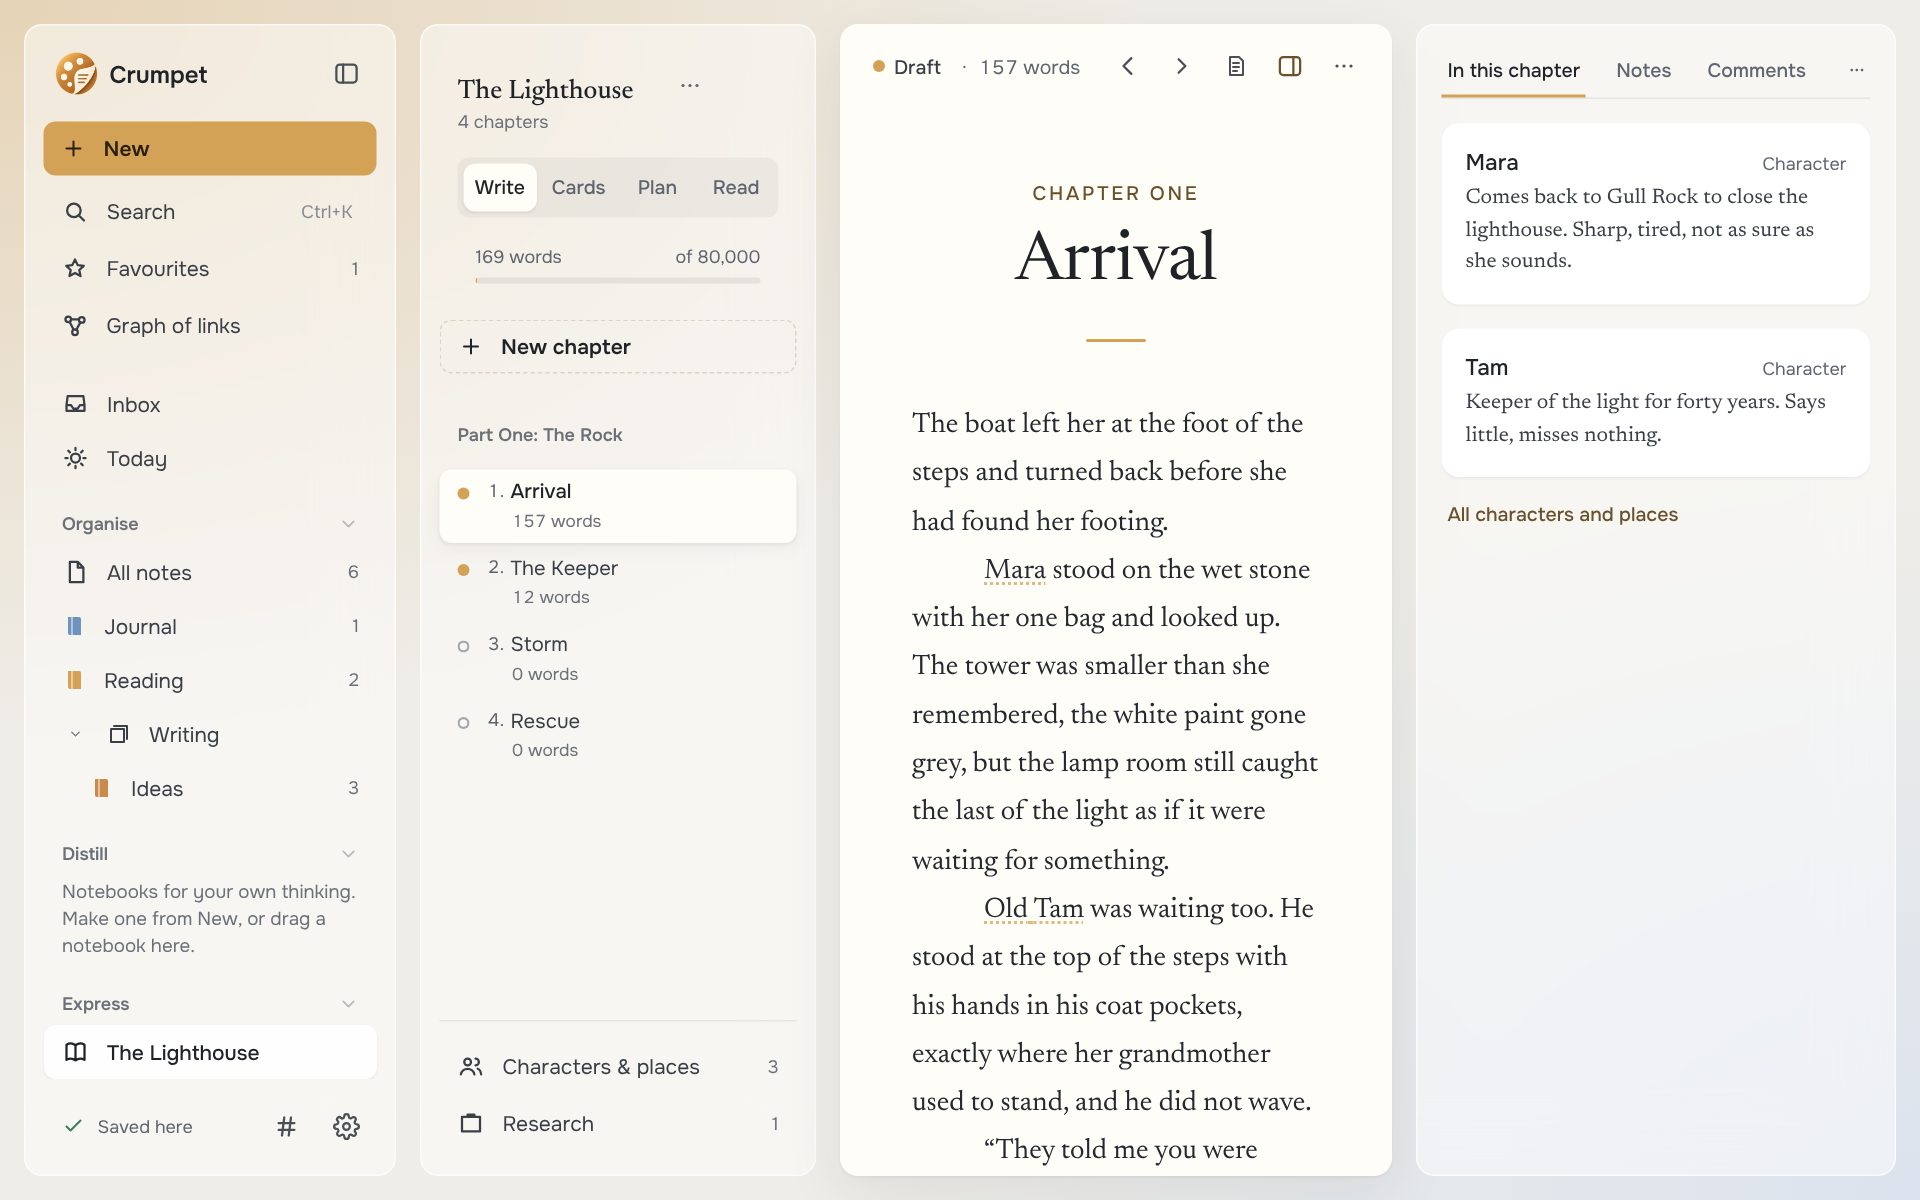
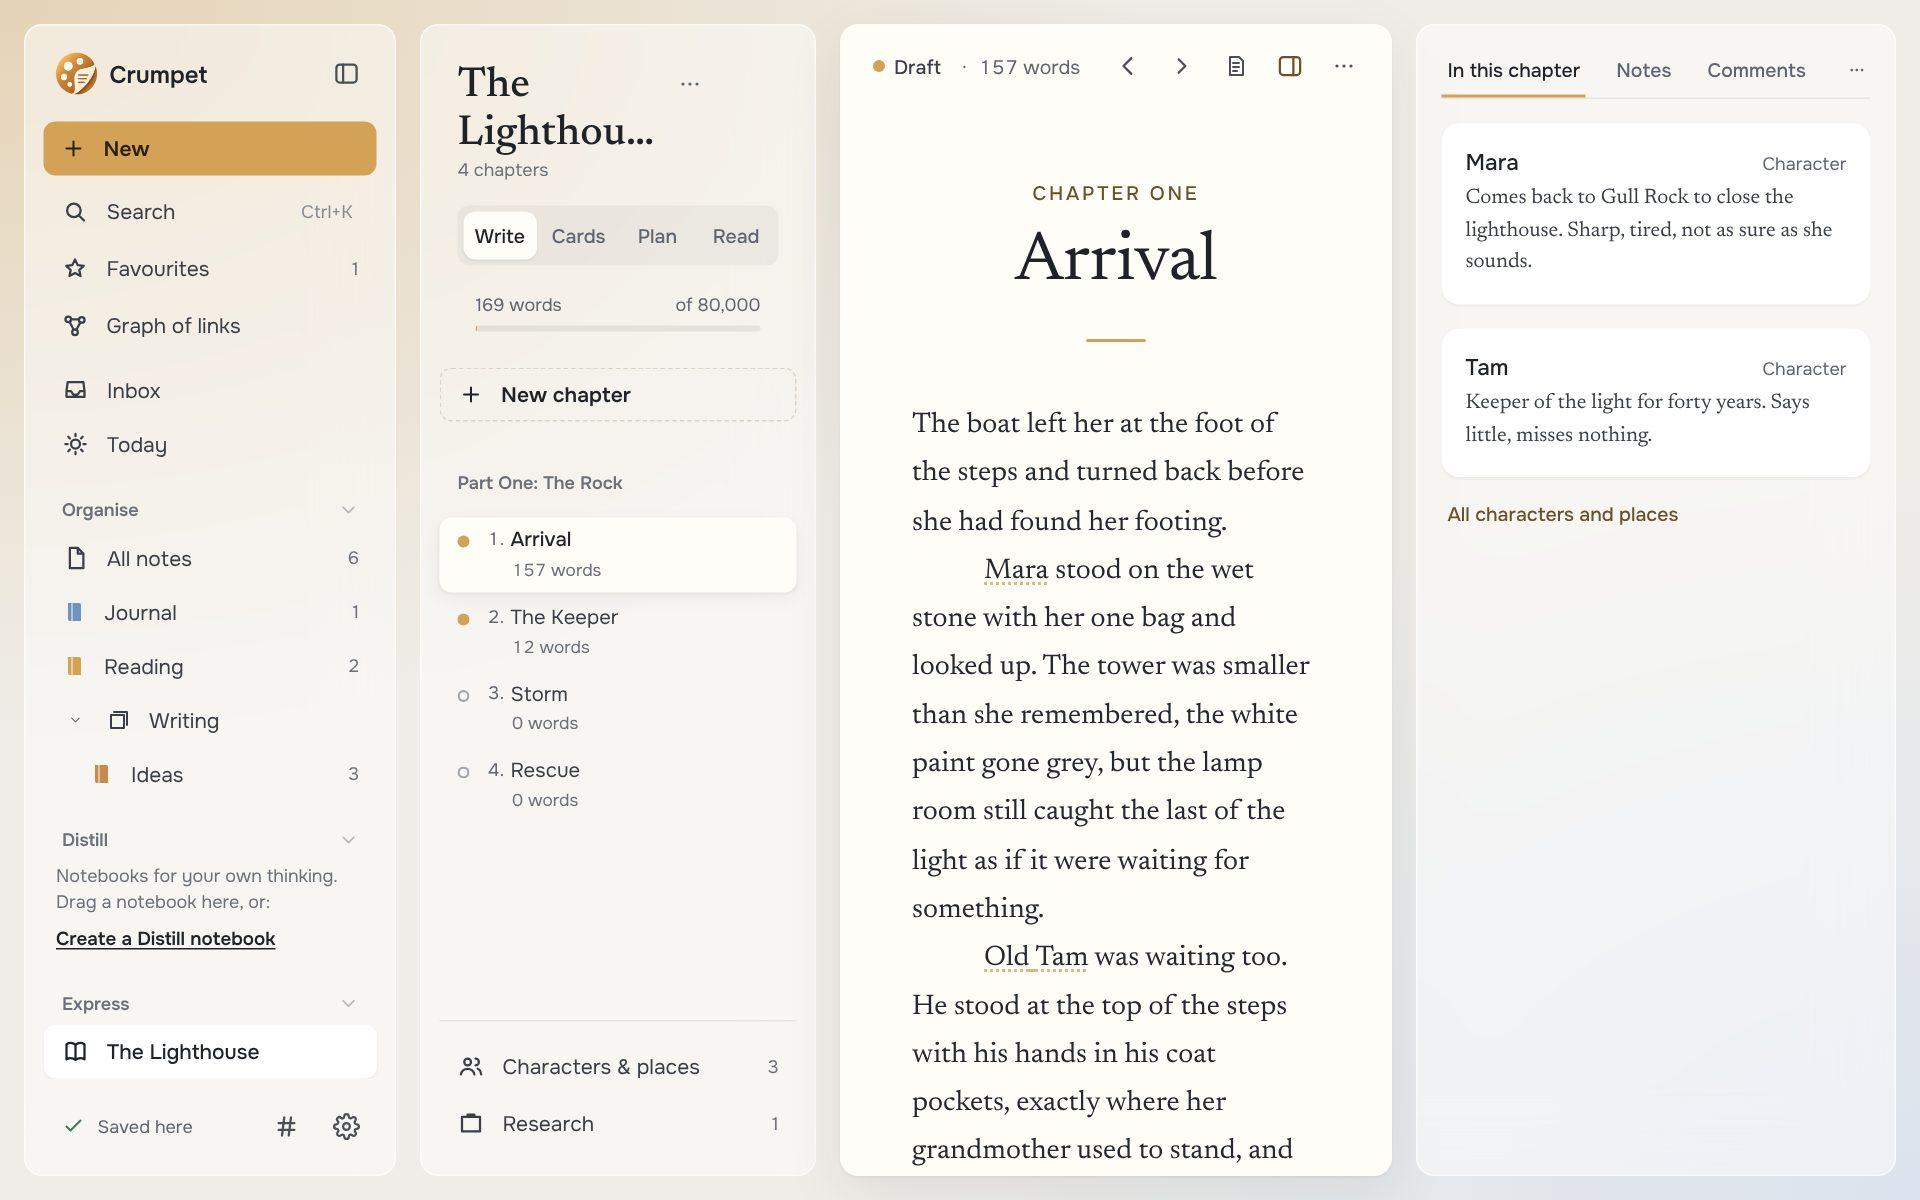
One switch style, one title size per level, one empty-section pattern
From the beta report's D7, D13 and D15:
- In Crumpet's own look every segmented switch (the Plan's tabs and lanes,
  Settings' and the Graph's filters, which were black pills) looks like
  Write/Cards/Plan/Read's.
- The book's name in its outline is 28px like the list's title, wrapping to
  two lines.
- Empty Distill and Express sidebar sections have a line and a link like
  Organise's (Create a Distill notebook, Start a book); the Tags menu's empty
  line sits with the menu's text.
- Guide pictures retaken; What's new entry.

Claude-Session: https://claude.ai/code/session_01TSPRCsqqCsX69RjAbFfRBD

diff --git a/app/src/ui/app.css b/app/src/ui/app.css
@@ -3055,9 +3055,7 @@ input.switch:focus-visible { outline: 2px solid var(--accent); outline-offset: 2
 /* ---- Quiet Paper: the whole window (designs 19, 20 and 22) ---- */
 .graph-view.calm .graph-head { display: flex; align-items: center; gap: 16px; padding: 20px 24px 0; }
 [data-look='crumpet'] .graph-head h1 { margin: 0; font: 500 28px/1.2 var(--title-font); letter-spacing: -0.01em; }
-.graph-chips { display: flex; gap: 6px; }
-.graph-chip { height: 28px; padding: 0 12px; border: none; border-radius: 999px; background: var(--calm-chip); font: 400 13px var(--ui-font); color: var(--calm-chip-ink); cursor: pointer; }
-.graph-chip[aria-pressed='true'] { background: var(--text); color: var(--page); }
+.graph-chips { display: flex; }
 .graph-find { width: 140px; height: 30px; padding: 0 10px; border: 1px solid var(--line); border-radius: 8px; background: transparent; font: inherit; font-size: 13px; color: var(--text); }
 .graph-view.calm .graph-head .check-row { font-size: 13px; color: var(--muted); }
 [data-look='crumpet'] .app.calm .board-pane.calm { position: relative; }
@@ -3834,3 +3832,19 @@ html[data-ui-scale] #root, html[data-ui-scale] body > .dialog-backdrop { zoom: v
 html[data-home-guide='1'] .app.phone .phone-library { padding-bottom: calc(200px + env(safe-area-inset-bottom, 0px)); }
 /* A back button names where it goes (a list, a book): long names end in … */
 .icon-btn.back .back-label { max-width: 42vw; overflow: hidden; text-overflow: ellipsis; white-space: nowrap; }
+
+/* One switch everywhere in Crumpet's own look (the beta report's D7): Write/Cards/Plan/Read's,
+   a soft tint with the chosen one a raised card. The book's modes and the phone's tabs keep
+   their own sizes, the same look. */
+[data-look='crumpet'] .segmented:not(.phone-tabs):not(.book-modes) { padding: 4px; gap: 4px; border-radius: 8px; background: color-mix(in srgb, var(--text) 5%, transparent); }
+[data-look='crumpet'] .segmented:not(.phone-tabs):not(.book-modes) button { min-height: 28px; padding: 0 10px; border-radius: 8px; font: 500 13px var(--ui-font); color: var(--muted); box-shadow: none; }
+[data-look='crumpet'] .segmented:not(.phone-tabs):not(.book-modes) button:is([aria-pressed='true'], [aria-selected='true'], [aria-checked='true']) { background: var(--calm-card, var(--page)); color: var(--text); box-shadow: 0 1px 2px rgba(31, 35, 40, 0.08); }
+[data-look='crumpet'] .segmented:not(.phone-tabs):not(.book-modes).small button { min-height: 24px; padding: 0 8px; font-size: 12.5px; }
+
+/* One title size per level (D13): a column's or a screen's title, the list's "All notes" and the
+   book's name in its outline alike (long names take two lines). */
+[data-look='crumpet'] .book-side .book-name h1, [data-look='crumpet'] .app.calm .book-side .book-name h1 { font-size: 28px; line-height: 1.15; white-space: normal; overflow: hidden; overflow-wrap: anywhere; display: -webkit-box; -webkit-line-clamp: 2; -webkit-box-orient: vertical; }
+[data-look='crumpet'] .book-side .book-head .list-title { align-items: flex-start; height: auto; }
+
+/* The Tags menu's empty line sits with the menu's text, not pushed to the right. */
+.tags-pop .tag-list > .menu-hint { margin: 2px 8px 6px; padding: 0; }

diff --git a/app/src/ui/Sidebar.tsx b/app/src/ui/Sidebar.tsx
@@ -223,7 +223,12 @@ export function Sidebar({ onOpenView, onOpenNote, onNewNote, onClose, onToday, o
         </div>
       )}
       {distill && !loose.some(mine) && !stacks.some((x) => mine(x.stack)) && creating !== nbKind && creating !== stKind && (
-        <p className="side-empty indent">Notebooks for your own thinking. Make one from New, or drag a notebook here.</p>
+        <div className="side-empty">
+          <p>Notebooks for your own thinking. Drag a notebook here, or:</p>
+          <button type="button" className="side-link" onClick={() => setCreating(nbKind)}>
+            Create a Distill notebook
+          </button>
+        </div>
       )}
       {loose.filter(mine).map((nb) => (
         <NotebookRow key={nb.id} nb={nb} count={counts.get(nb.id) ?? 0} depth={0} calm={calm} active={active({ kind: 'notebook', id: nb.id })} onOpen={() => onOpenView({ kind: 'notebook', id: nb.id })} />
@@ -251,7 +256,7 @@ export function Sidebar({ onOpenView, onOpenNote, onNewNote, onClose, onToday, o
       </button>
       {tagsOpen && (
         <div className="tag-list">
-          {tags.length === 0 && <p className="side-empty indent">Tags you add to notes show up here.</p>}
+          {tags.length === 0 && <p className="side-empty">Tags you add to notes show up here.</p>}
           <TagRows nodes={tags} depth={0} active={active} onOpenView={onOpenView} onDropTag={toTag} />
         </div>
       )}
@@ -377,7 +382,14 @@ export function Sidebar({ onOpenView, onOpenNote, onNewNote, onClose, onToday, o
 
         {(on('express') || on('submissions')) && <SideSection name="Express" hint="Your books, and where you’ve sent them" folded={folded} onToggle={toggleSection} drop={projectsHead}>
           {on('express') && newProject}
-          {on('express') && state.projects.length === 0 && creating !== 'project' && <p className="side-empty indent">Start a book from New.</p>}
+          {on('express') && state.projects.length === 0 && creating !== 'project' && (
+            <div className="side-empty">
+              <p>Books and other long writing, in chapters.</p>
+              <button type="button" className="side-link" onClick={() => setCreating('project')}>
+                Start a book
+              </button>
+            </div>
+          )}
           {on('express') && projectRows}
           {on('submissions') && <SideRow icon={<IconSend size={18} />} label="Submissions" active={false} onClick={() => openSubmissions()} strong />}
         </SideSection>}
@@ -461,7 +473,7 @@ export function Sidebar({ onOpenView, onOpenNote, onNewNote, onClose, onToday, o
           <div className="side-empty">
             <p>Books, essays and other long writing, in chapters.</p>
             <button type="button" className="side-link" onClick={() => setCreating('project')}>
-              Start a project
+              Start a book
             </button>
           </div>
         )}

diff --git a/app/src/data/whatsnew.ts b/app/src/data/whatsnew.ts
@@ -10,6 +10,16 @@ export interface WhatsNew {
 
 export const WHATS_NEW: WhatsNew[] = [
   {
+    id: '2026-11-09-one-look',
+    date: '9 November 2026',
+    title: 'Menus, switches and titles that match',
+    points: [
+      'Every item in a menu has an icon now (or, in the book’s and notebook’s menus, none do), and on a phone they stay on the left as on a computer.',
+      'The switches (Write, Cards, Plan, Read; the Plan’s tabs; the Graph’s All notes, Near the open note, Two links away) all look the same.',
+      'A book’s name in its outline is as big as a list’s title, on two lines if it’s long. Empty Distill and Express sections in the sidebar offer to make one, as Organise does.',
+    ],
+  },
+  {
     id: '2026-11-09-chapter-menu',
     date: '9 November 2026',
     title: 'A fuller chapter menu, Markdown downloads, and tools on selection',

diff --git a/app/src/ui/graph.tsx b/app/src/ui/graph.tsx
@@ -186,7 +186,7 @@ export function GraphView() {
       {calm && (
         <div className="graph-head">
           <h1>Graph</h1>
-          <div className="graph-chips" role="group" aria-label="Which notes">
+          <div className="segmented graph-chips" role="group" aria-label="Which notes">
             {(
               [
                 [0, 'All notes'],
@@ -194,7 +194,7 @@ export function GraphView() {
                 [2, 'Two links away'],
               ] as const
             ).map(([n, label]) => (
-              <button key={n} type="button" className="graph-chip" aria-pressed={local === n} onClick={() => setLocal(n)}>
+              <button key={n} type="button" aria-pressed={local === n} onClick={() => setLocal(n)}>
                 {label}
               </button>
             ))}
